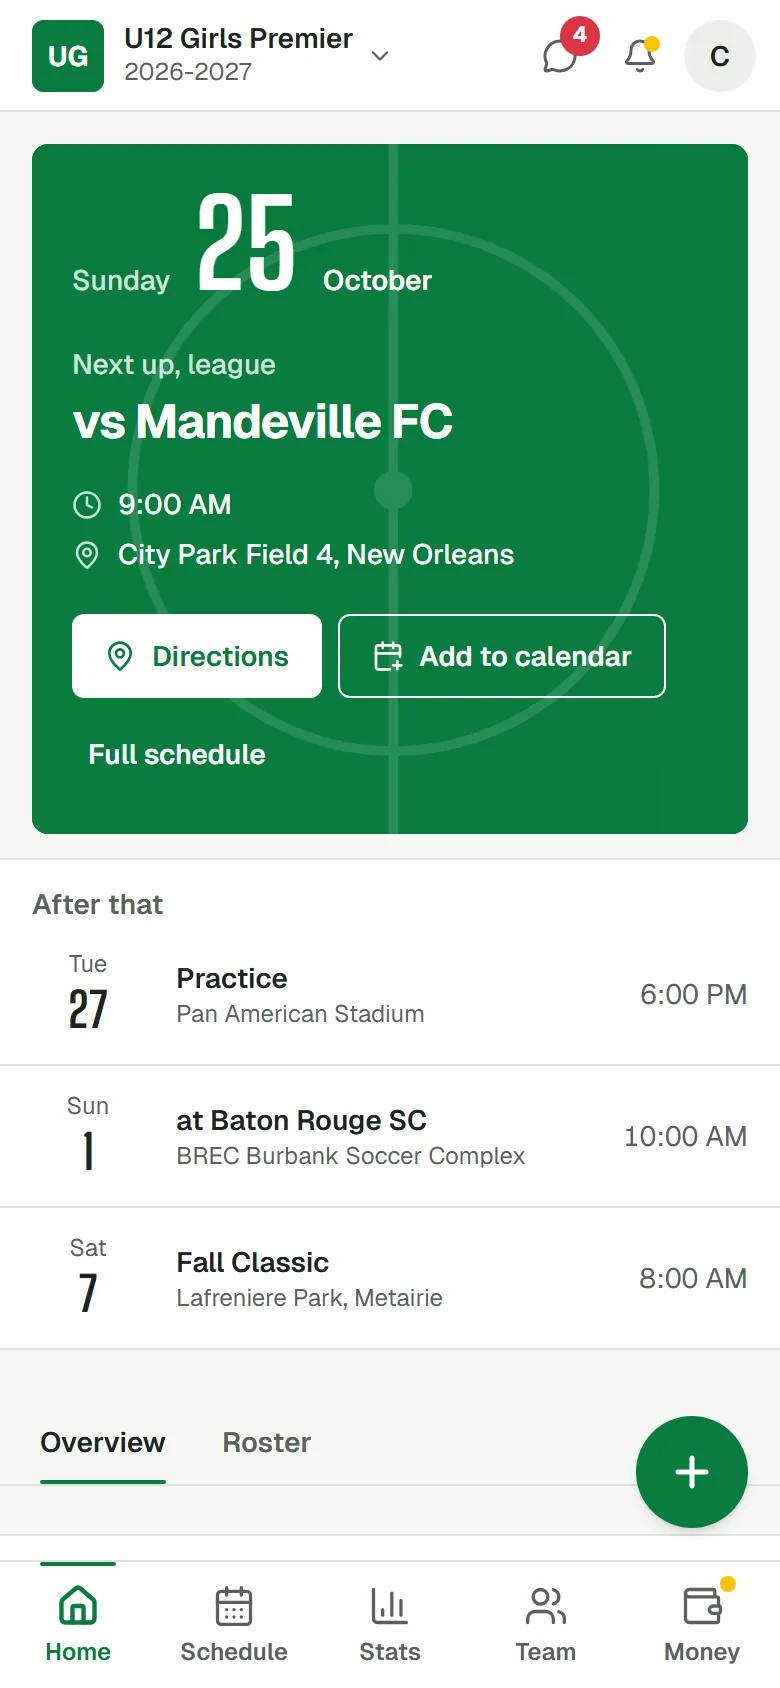
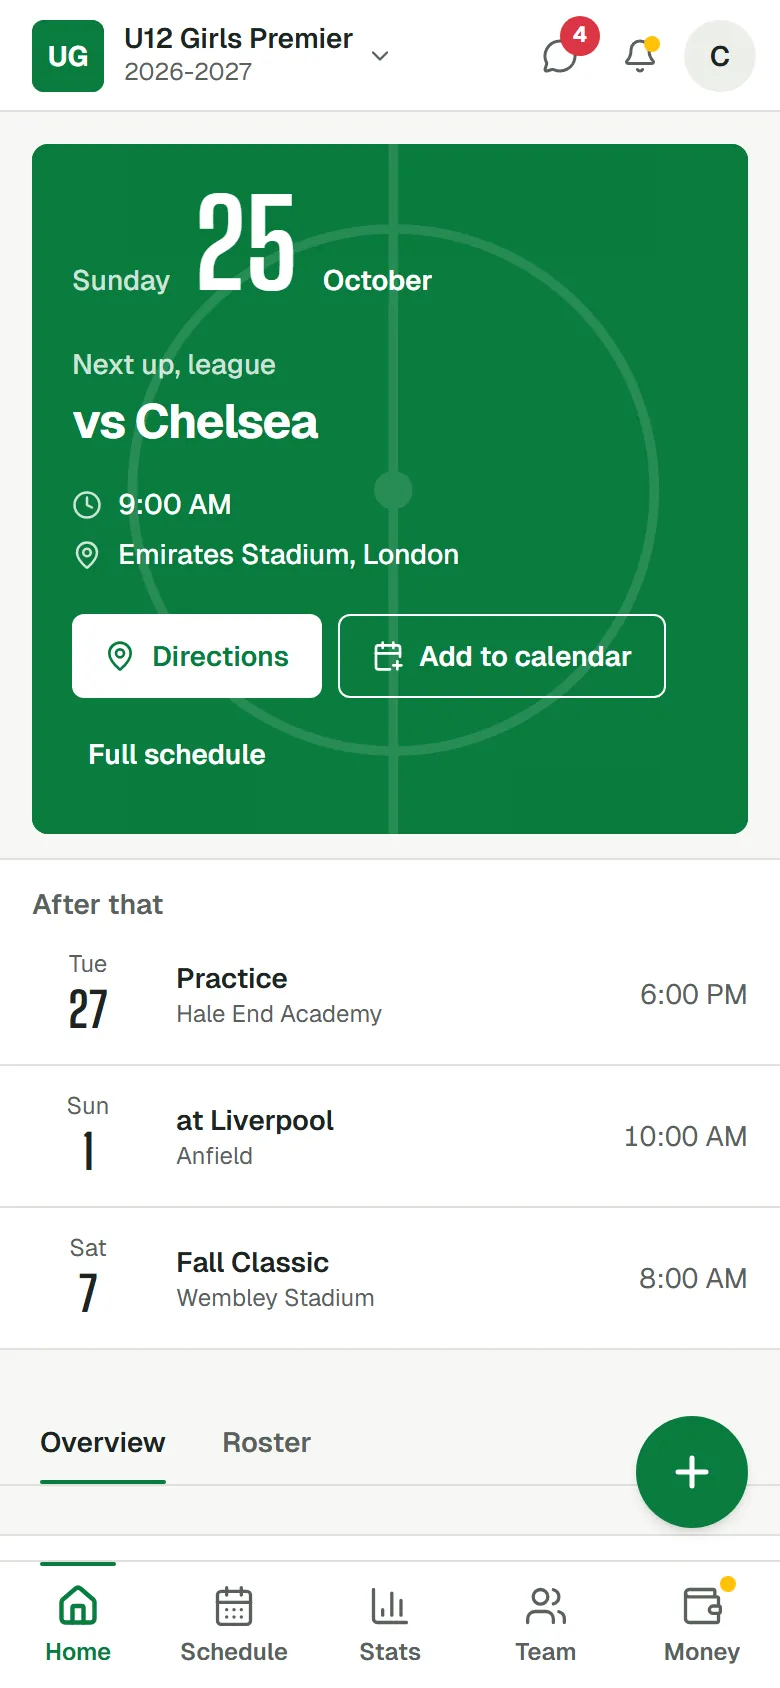
chore: mask location in the sample data and retake marketing screenshots
Sample teams, venues and surnames now use Premier League clubs and
grounds instead of local ones, and the 504 area code is gone.

diff --git a/src/preview/keepPreview.js b/src/preview/keepPreview.js
@@ -12,16 +12,16 @@ const at = (days, hour) => {
 
 const TABLES = {
   teams: [{ id: 't1', name: 'U12 Girls Premier' }],
-  film_teams: [{ team_id: 't1', short_name: 'NOLA' }],
+  film_teams: [{ team_id: 't1', short_name: 'Arsenal' }],
   players: [
     ['00000000-0000-4000-8000-000000000001', 'Maya', 'Thompson', 7],
-    ['00000000-0000-4000-8000-000000000002', 'Ava', 'Broussard', 10],
-    ['00000000-0000-4000-8000-000000000003', 'Zoe', 'Landry', 4],
+    ['00000000-0000-4000-8000-000000000002', 'Ava', 'Bennett', 10],
+    ['00000000-0000-4000-8000-000000000003', 'Zoe', 'Lawson', 4],
     ['00000000-0000-4000-8000-000000000004', 'Lila', 'Nguyen', 14],
-    ['00000000-0000-4000-8000-000000000005', 'Chloe', 'Hebert', 22],
-    ['00000000-0000-4000-8000-000000000006', 'Nora', 'Fontenot', 1],
-    ['00000000-0000-4000-8000-000000000007', 'Emma', 'Guidry', 9],
-    ['00000000-0000-4000-8000-000000000008', 'Sofia', 'Boudreaux', 3],
+    ['00000000-0000-4000-8000-000000000005', 'Chloe', 'Hughes', 22],
+    ['00000000-0000-4000-8000-000000000006', 'Nora', 'Foster', 1],
+    ['00000000-0000-4000-8000-000000000007', 'Emma', 'Grant', 9],
+    ['00000000-0000-4000-8000-000000000008', 'Sofia', 'Brooks', 3],
   ].map(([id, first_name, last_name, jersey_number]) => ({
     id,
     first_name,
@@ -37,23 +37,23 @@ const TABLES = {
   team_events: [
     {
       id: '11111111-1111-4111-8111-111111111111',
-      title: 'vs Mandeville FC',
-      location: 'City Park Field 4',
+      title: 'vs Chelsea',
+      location: 'Emirates Stadium',
       // Kicked off 20 minutes ago, so its stat window is open whenever the preview runs.
       event_date: new Date(Date.now() - 20 * 60 * 1000).toISOString(),
       event_type: 'league',
       is_cancelled: false,
-      opponent: 'Mandeville FC',
+      opponent: 'Chelsea',
       is_home: true,
     },
     {
       id: '22222222-2222-4222-8222-222222222222',
-      title: 'at Baton Rouge SC',
-      location: 'BREC Burbank',
+      title: 'at Liverpool',
+      location: 'Anfield',
       event_date: at(5, 10),
       event_type: 'league',
       is_cancelled: false,
-      opponent: 'Baton Rouge SC',
+      opponent: 'Liverpool',
       is_home: false,
     },
   ],
@@ -90,7 +90,7 @@ const T0 = Date.now() - 23 * 60 * 1000;
 let seq = 0;
 const entryId = () => `preview-${String(++seq).padStart(6, '0')}`;
 const tap = (min, f) => ({ id: entryId(), at: T0 + min * 60000, k: 'ev', h: 1, c: `${min}:00`, ...f });
-export const LIVE_GAME = '2026-10-22-mandeville-fc';
+export const LIVE_GAME = '2026-10-22-chelsea';
 export const LIVE_ENTRIES = [
   {
     id: entryId(),
@@ -100,7 +100,7 @@ export const LIVE_ENTRIES = [
       slug: LIVE_GAME,
       date: new Date().toISOString().slice(0, 10),
       time: '18:00',
-      opponent: 'Mandeville FC',
+      opponent: 'Chelsea',
       home: true,
       format: 7,
       halfMin: 30,
@@ -108,9 +108,9 @@ export const LIVE_ENTRIES = [
     },
   },
   { id: entryId(), at: T0, k: 'clock', h: 1, c: '0:00', run: true },
-  tap(4, { type: 'Shot', t: 'D', player: 'Emma Guidry', on: true, result: 'saved' }),
-  tap(9, { type: 'Goal', t: 'D', player: 'Emma Guidry', assist: 'Ava Broussard' }),
-  tap(14, { type: 'Save', t: 'D', player: 'Nora Fontenot' }),
+  tap(4, { type: 'Shot', t: 'D', player: 'Emma Grant', on: true, result: 'saved' }),
+  tap(9, { type: 'Goal', t: 'D', player: 'Emma Grant', assist: 'Ava Bennett' }),
+  tap(14, { type: 'Save', t: 'D', player: 'Nora Foster' }),
   tap(17, { type: 'Goal', t: 'O', opp: 'pl' }),
   tap(21, { type: 'Yellow', t: 'O', opp: 'pl' }),
 ];

diff --git a/src/preview/main.jsx b/src/preview/main.jsx
@@ -22,7 +22,7 @@ ReactDOM.createRoot(document.getElementById('root')).render(
       <MemoryRouter
         initialEntries={[
           params.get('page') === 'live'
-            ? '/live/t1/2026-10-22-mandeville-fc'
+            ? '/live/t1/2026-10-22-chelsea'
             : params.get('page') === 'keep'
               ? `/keep/t1${params.get('keep') ? `/${params.get('keep')}` : ''}`
               : params.get('page') === 'chat'
